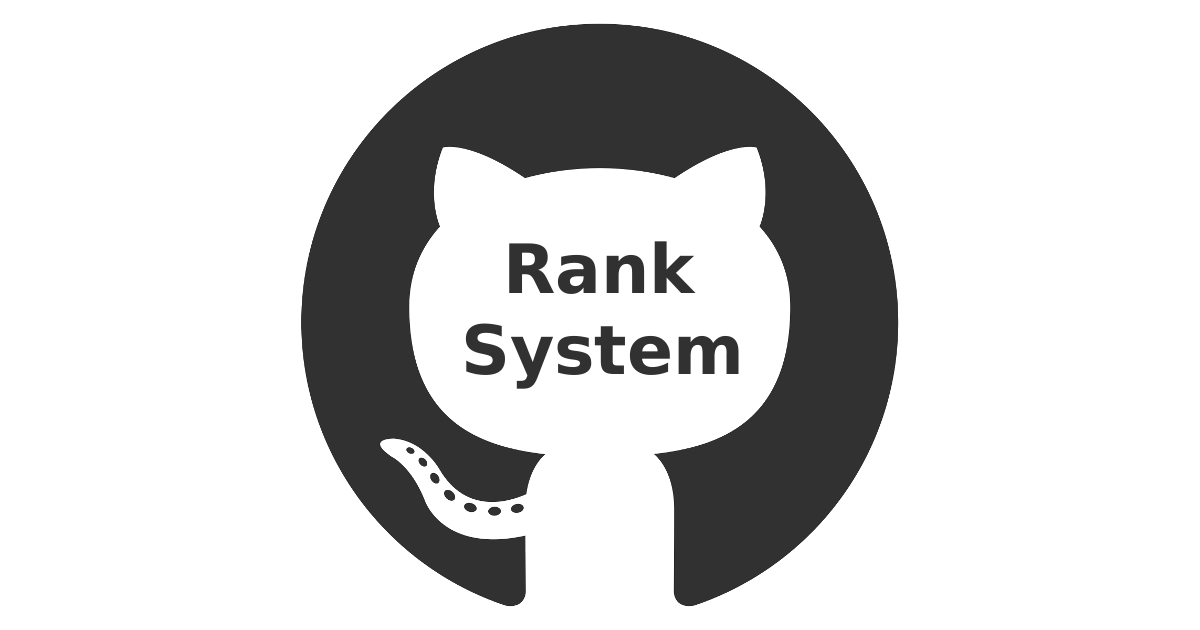
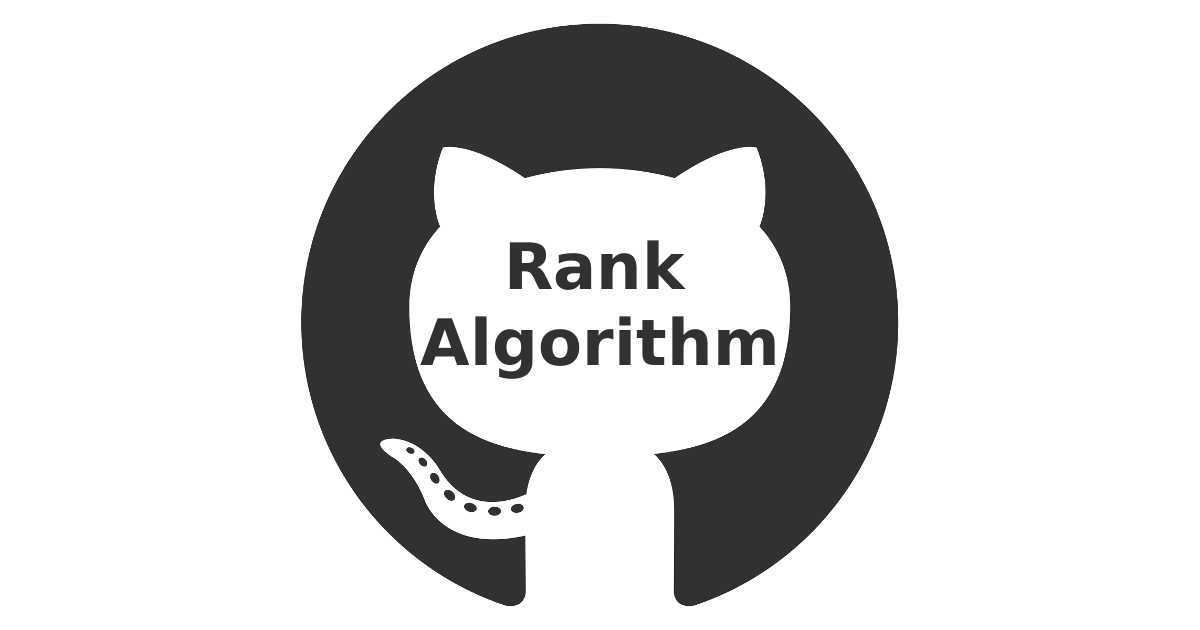
Update Website Content

Changed region(s): [[0.3392, 0.3619, 0.6475, 0.6333]]

diff --git a/content/blog/github-repo-rank-system.md b/content/blog/github-repo-rank-system.md
@@ -1,5 +1,5 @@
 +++
-title = "A New GitHub Repository Rank Algorithm"
+title = "A New GitHub Rank Algorithm"
 date = 2018-11-26T22:21:58-05:00
 description = "GitHub stars have long been an insufficient means of determining a repository's worth. It's time for a new ranking system."
 image = "https://bryanbugyi.com/images/github-rank-system.png"
